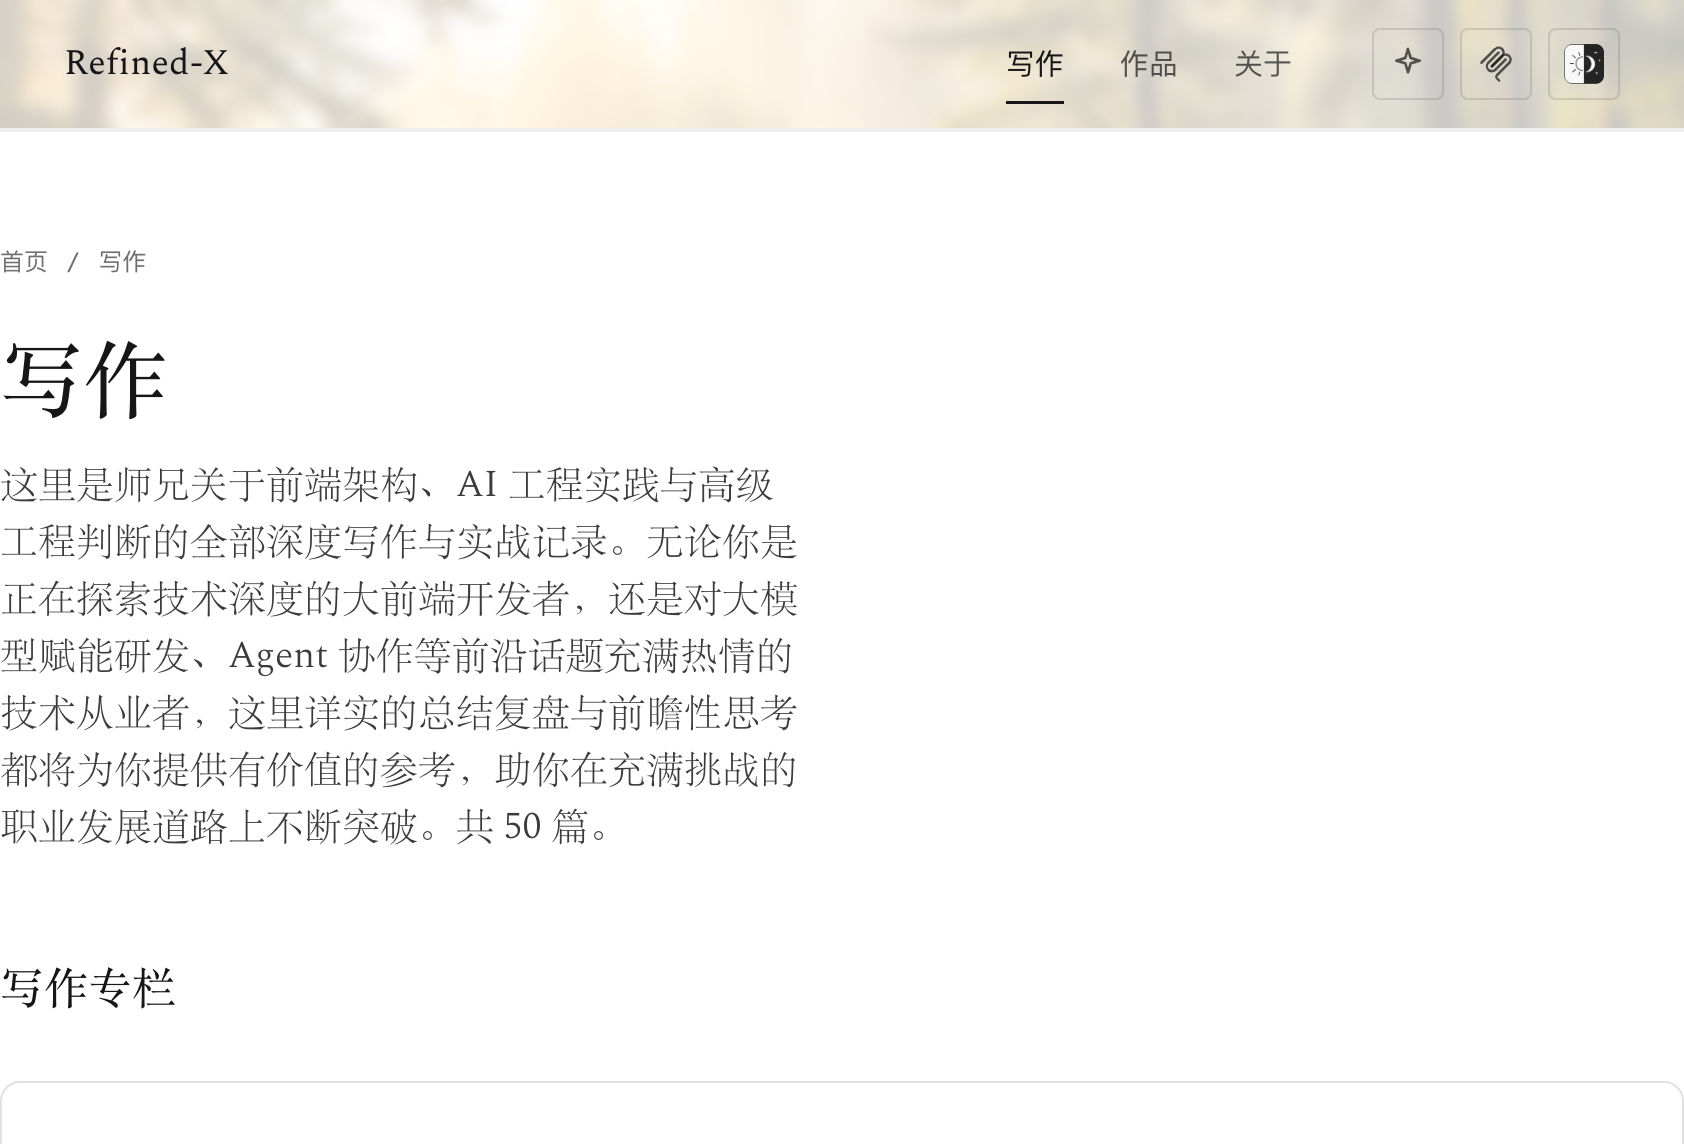
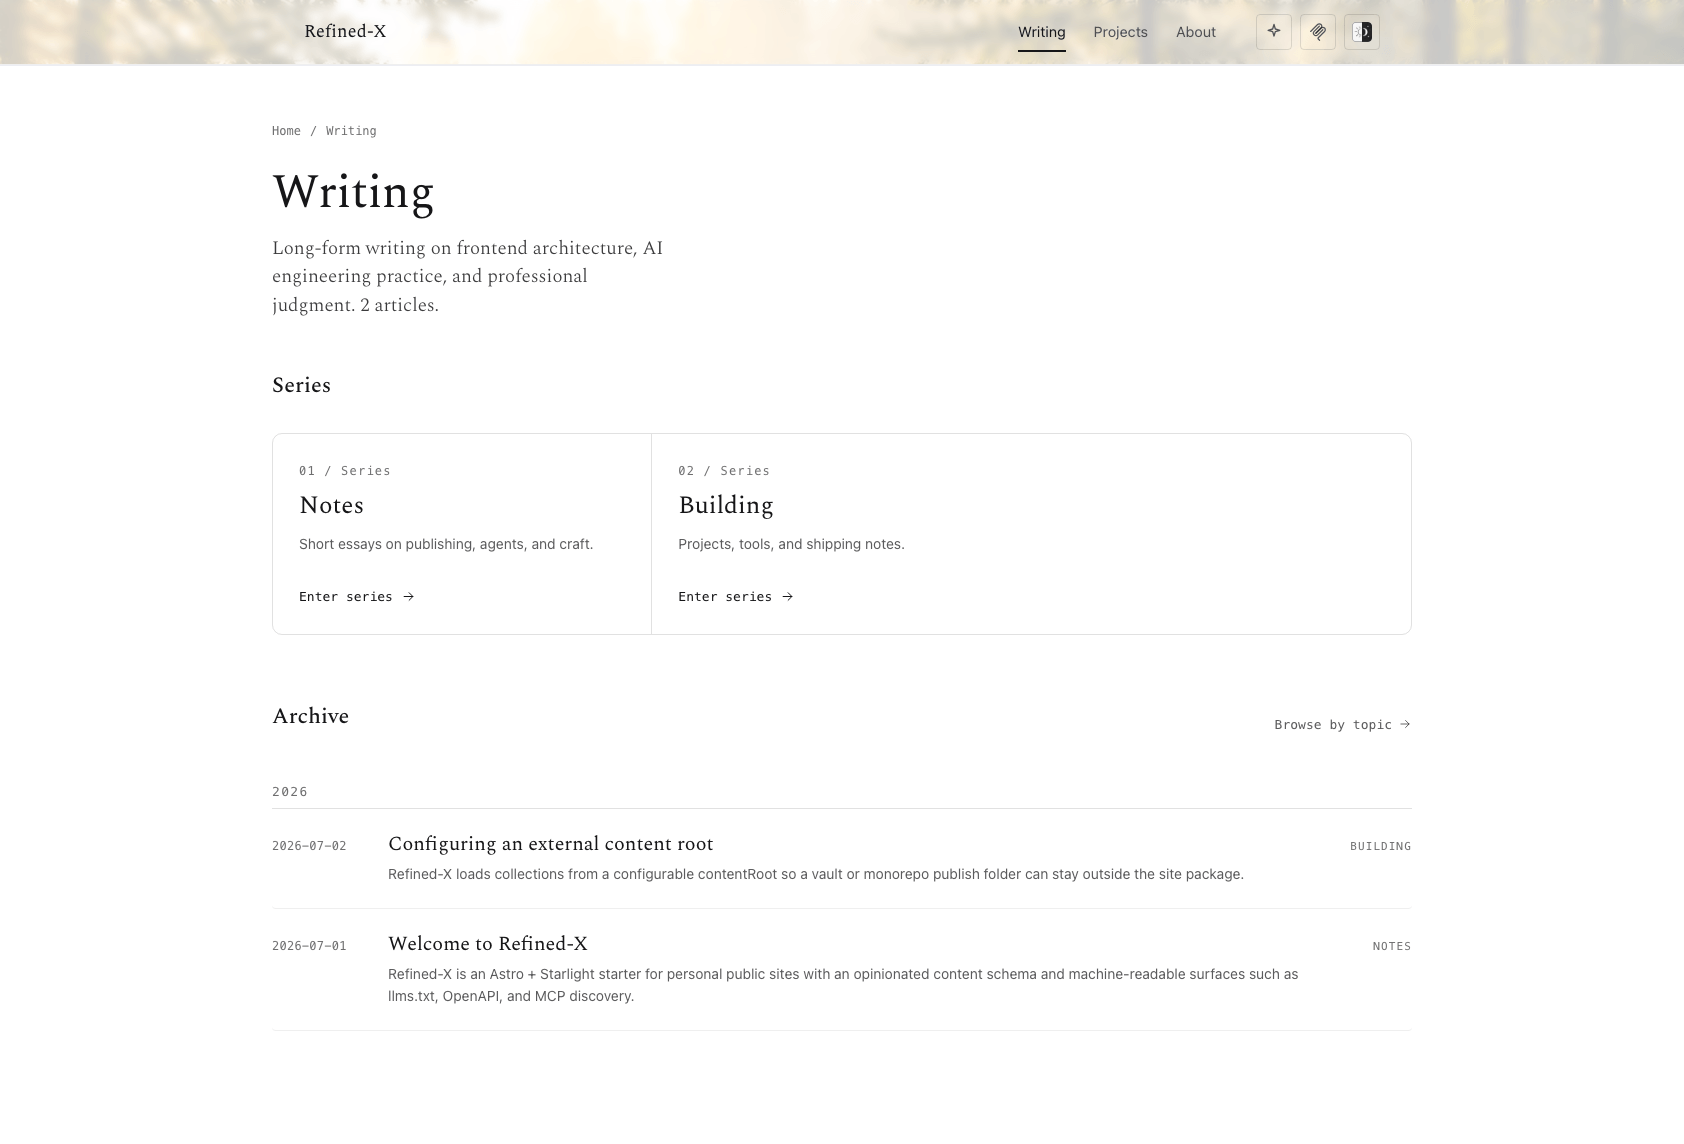
Refresh Themes Portal screenshots from the sample demo site.
Replace production-site captures with demo.refined-x.com shots and switch the heavy home PNG to a compressed JPEG.

diff --git a/docs/themes-portal.md b/docs/themes-portal.md
@@ -8,7 +8,7 @@
 **License:** MIT  
 **Install:** `npm create astro@latest -- --template tower1229/Refined-X`
 
-**Screenshots:** Must be taken from **https://demo.refined-x.com** (sample content), not from the production personal site. Current files in `docs/screenshots/` still need a refresh after the demo is live.
+**Screenshots:** `docs/screenshots/home.jpg`, `docs/screenshots/writing.png` (from https://demo.refined-x.com sample content).
 
 **Blurb (EN):** Opinionated Astro + Starlight starter for personal sites with editorial UI and machine-readable surfaces (`llms.txt`, OpenAPI, JSON APIs, MCP discovery). Point `contentRoot` at your vault; optionally attach a Public Ask worker for NLWeb-compatible live Q&A.
 

diff --git a/README.md b/README.md
@@ -2,7 +2,7 @@ English | [简体中文](README.zh-CN.md)
 
 # Refined-X
 
-![Home](docs/screenshots/home.png)
+![Home](docs/screenshots/home.jpg)
 
 An **agent-friendly personal site** template built on [Astro](https://astro.build/) + [Starlight](https://starlight.astro.build/).
 

diff --git a/README.zh-CN.md b/README.zh-CN.md
@@ -2,7 +2,7 @@
 
 # Refined-X
 
-![首页](docs/screenshots/home.png)
+![首页](docs/screenshots/home.jpg)
 
 基于 [Astro](https://astro.build/) + [Starlight](https://starlight.astro.build/) 的 **Agent 友好的个人站点** 模板。
 
